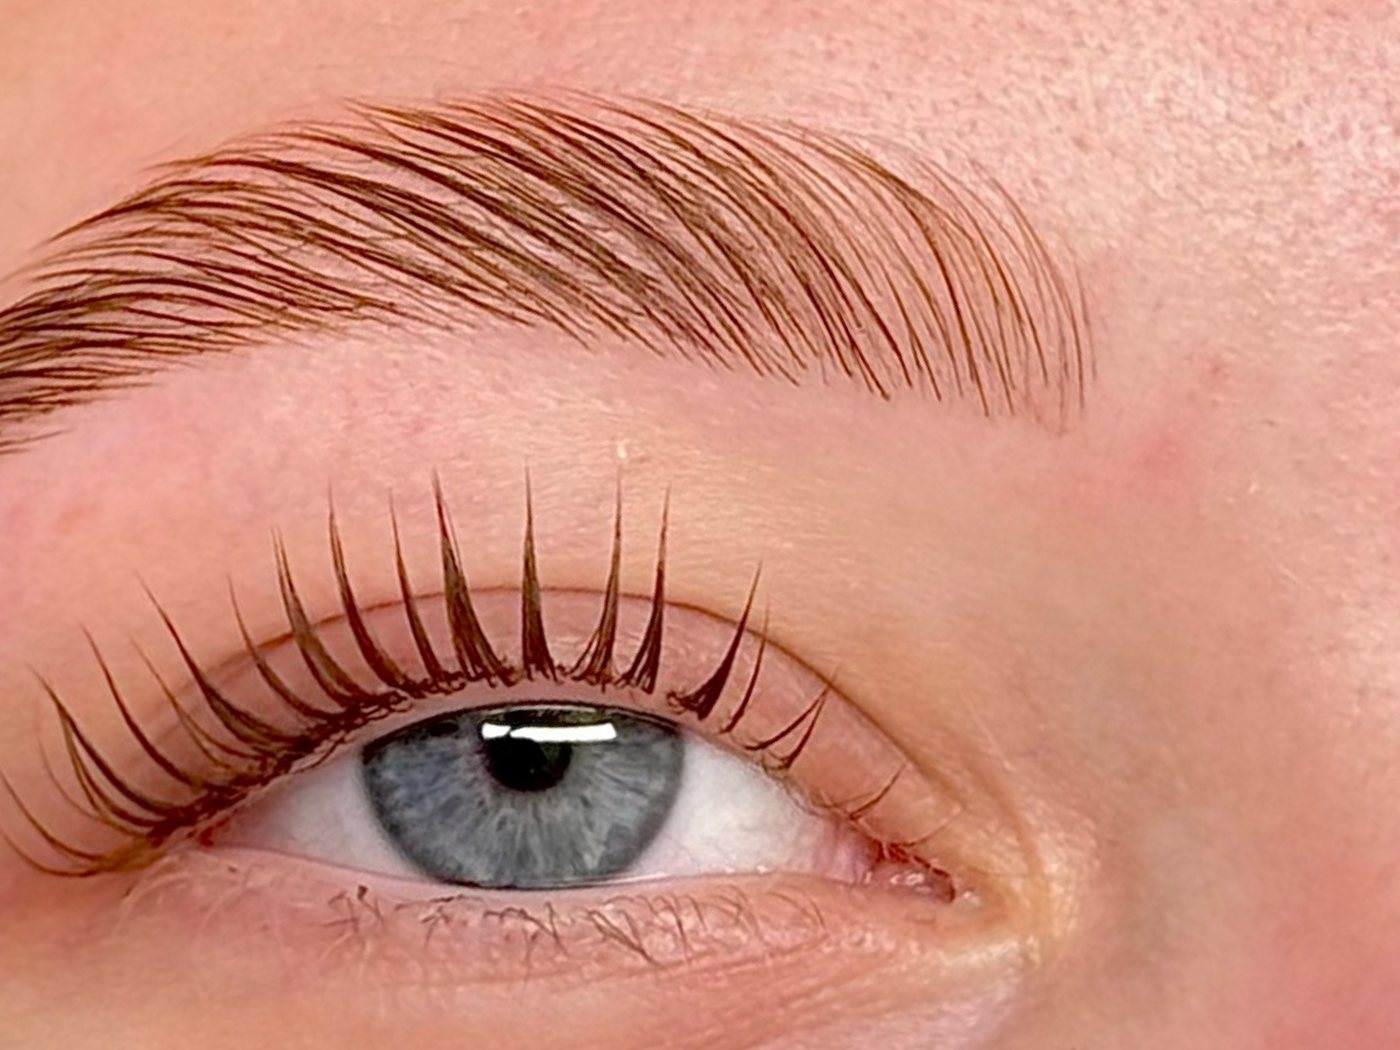
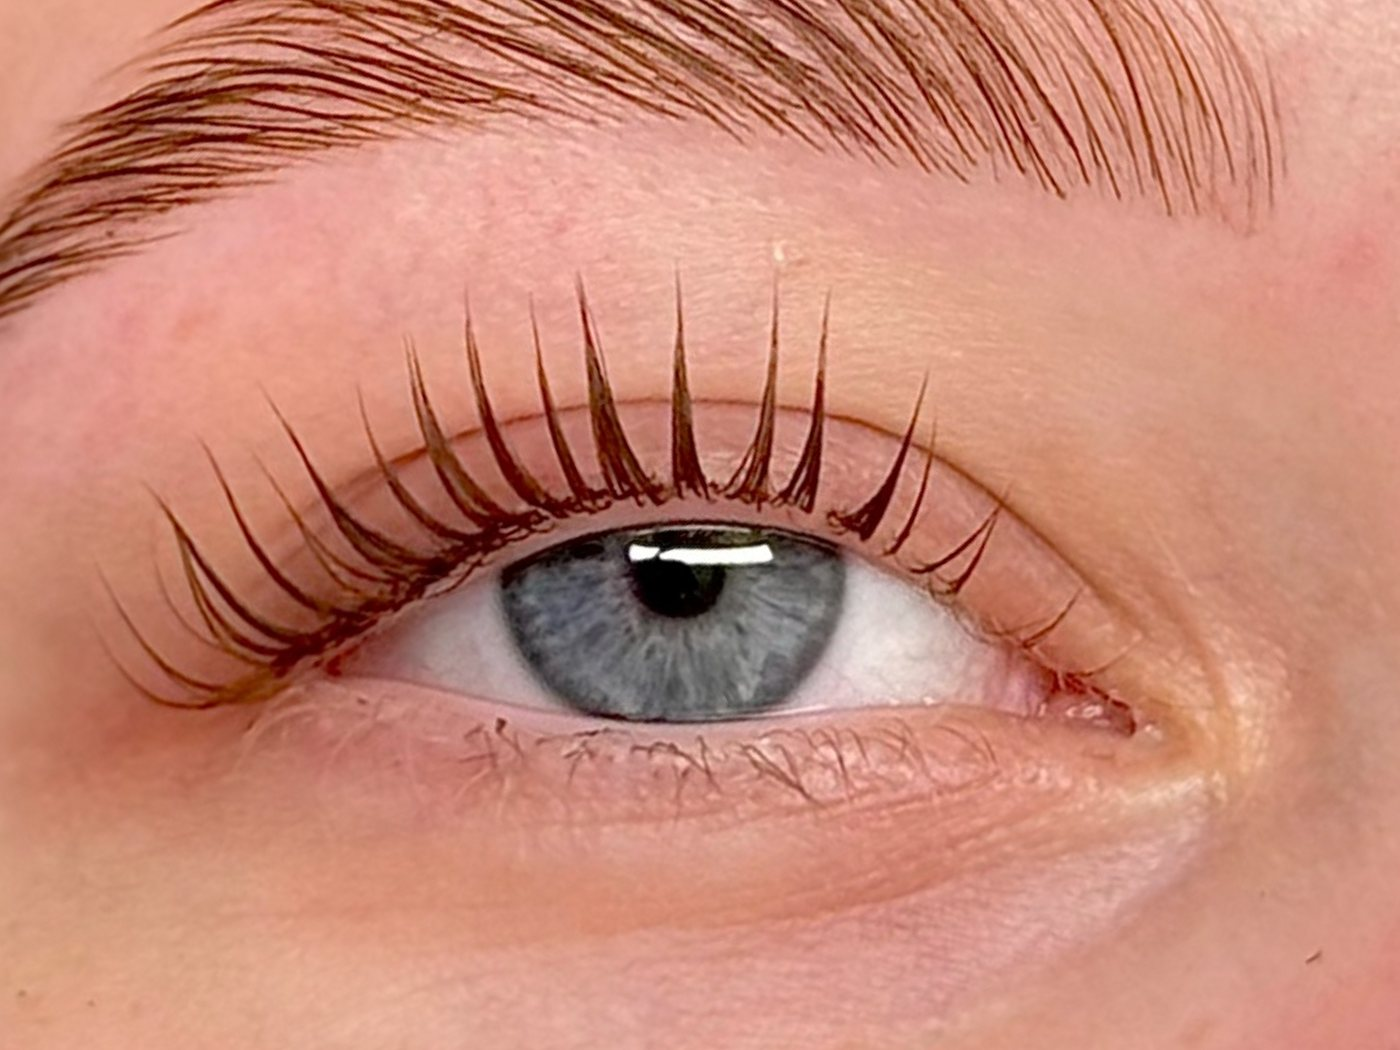
Centrér efter-billedet i vipper & bryn-parret
Efter-billedets øje lå for langt til venstre i rammen. Årsagen var, at
begge halvdele af diptychen fik samme centrum, ud fra en global
krydskorrelation der sagde at halvdelene lå inden for 8 px af hinanden.
Den måling var domineret af hår og baggrund, ikke af ansigtet.

Målt direkte på pupillen står den i (730, 2510) i før-halvdelen og
(860, 2730) i efter-halvdelen. Hovedet har altså flyttet sig 130 px til
siden og 220 px ned mellem de to optagelser. En lokal krydskorrelation på
kinden under øjet bekræfter retningen med dx=+54, dy=+160, hvor dy ramte
søgegrænsen og altså reelt er større.

Aksen mellem de to pupiller sætter stadig rotation og målestok for begge,
men centrum måles nu i hver halvdel for sig. Pupillen ligger derefter på
midterlinjen i begge billeder, og wipe-linjen skærer gennem samme øje.

Udsnittet er samtidig strammet fra 0.95 til 0.85 pupilafstande, fordi det
nye centrum ligger tættere på kildens kant. Samme zoom bruges på begge, så
motiverne står lige store.

diff --git a/scripts/beforeafter/make.py b/scripts/beforeafter/make.py
@@ -114,8 +114,15 @@ if __name__ == '__main__':
     tmp = [ROOT / '.ba-tmp-a.jpg', ROOT / '.ba-tmp-b.jpg']
     dip.crop((0, 0, half, dip.height)).save(tmp[0], quality=96)
     dip.crop((half, 0, dip.width, dip.height)).save(tmp[1], quality=96)
-    EYES = ((770, 2540), (1340, 1290))          # de to pupiller, ens i begge halvdele
-    build('lashes-brows', [(tmp[0], *EYES, EYES[0]), (tmp[1], *EYES, EYES[0])], zoom=0.95)
+    # Aksen (de to pupiller) sætter rotation og målestok. Centrum måles
+    # derimod i HVER halvdel for sig: hovedet har flyttet sig 130 px til
+    # siden og 220 px ned mellem de to optagelser, og med ét fælles centrum
+    # kom efter-billedets øje til at ligge for langt til venstre i rammen.
+    AXIS = ((770, 2540), (1340, 1290))
+    build('lashes-brows', [
+        (tmp[0], *AXIS, (730, 2510)),      # pupillen i FØR
+        (tmp[1], *AXIS, (860, 2730)),      # pupillen i EFTER
+    ], zoom=0.95)
     for t in tmp:
         t.unlink()
 
